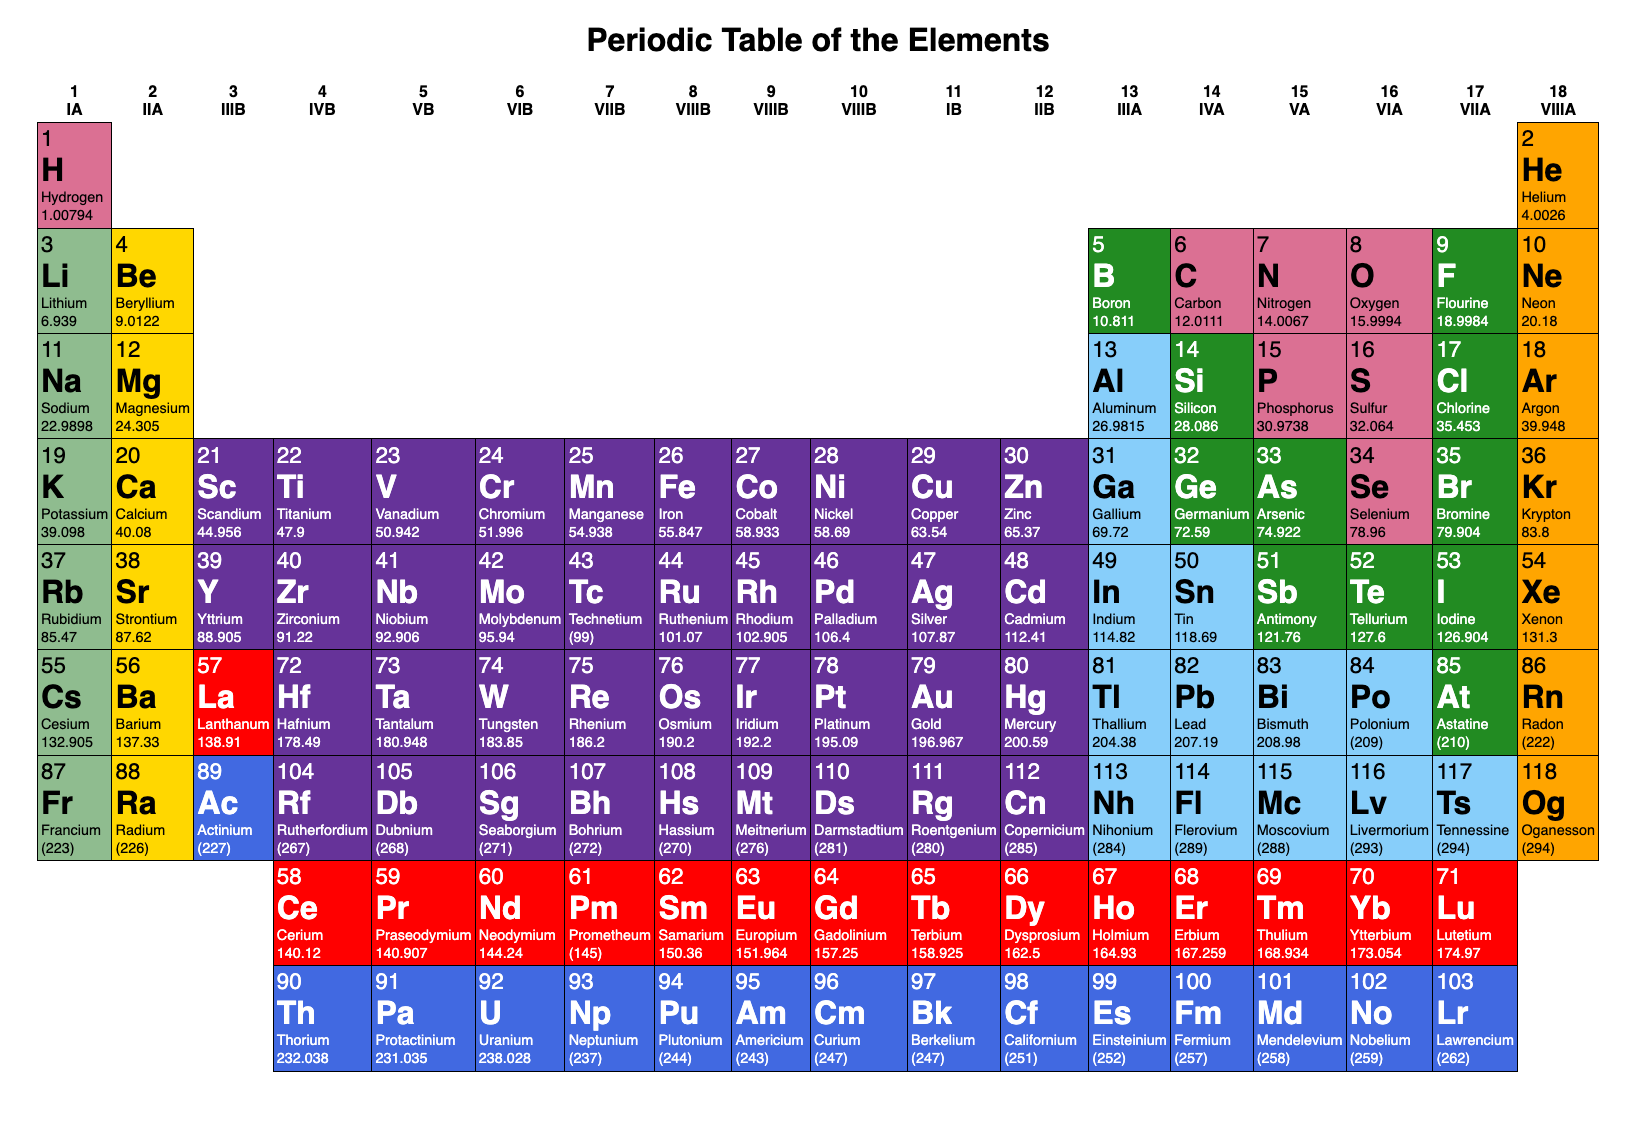
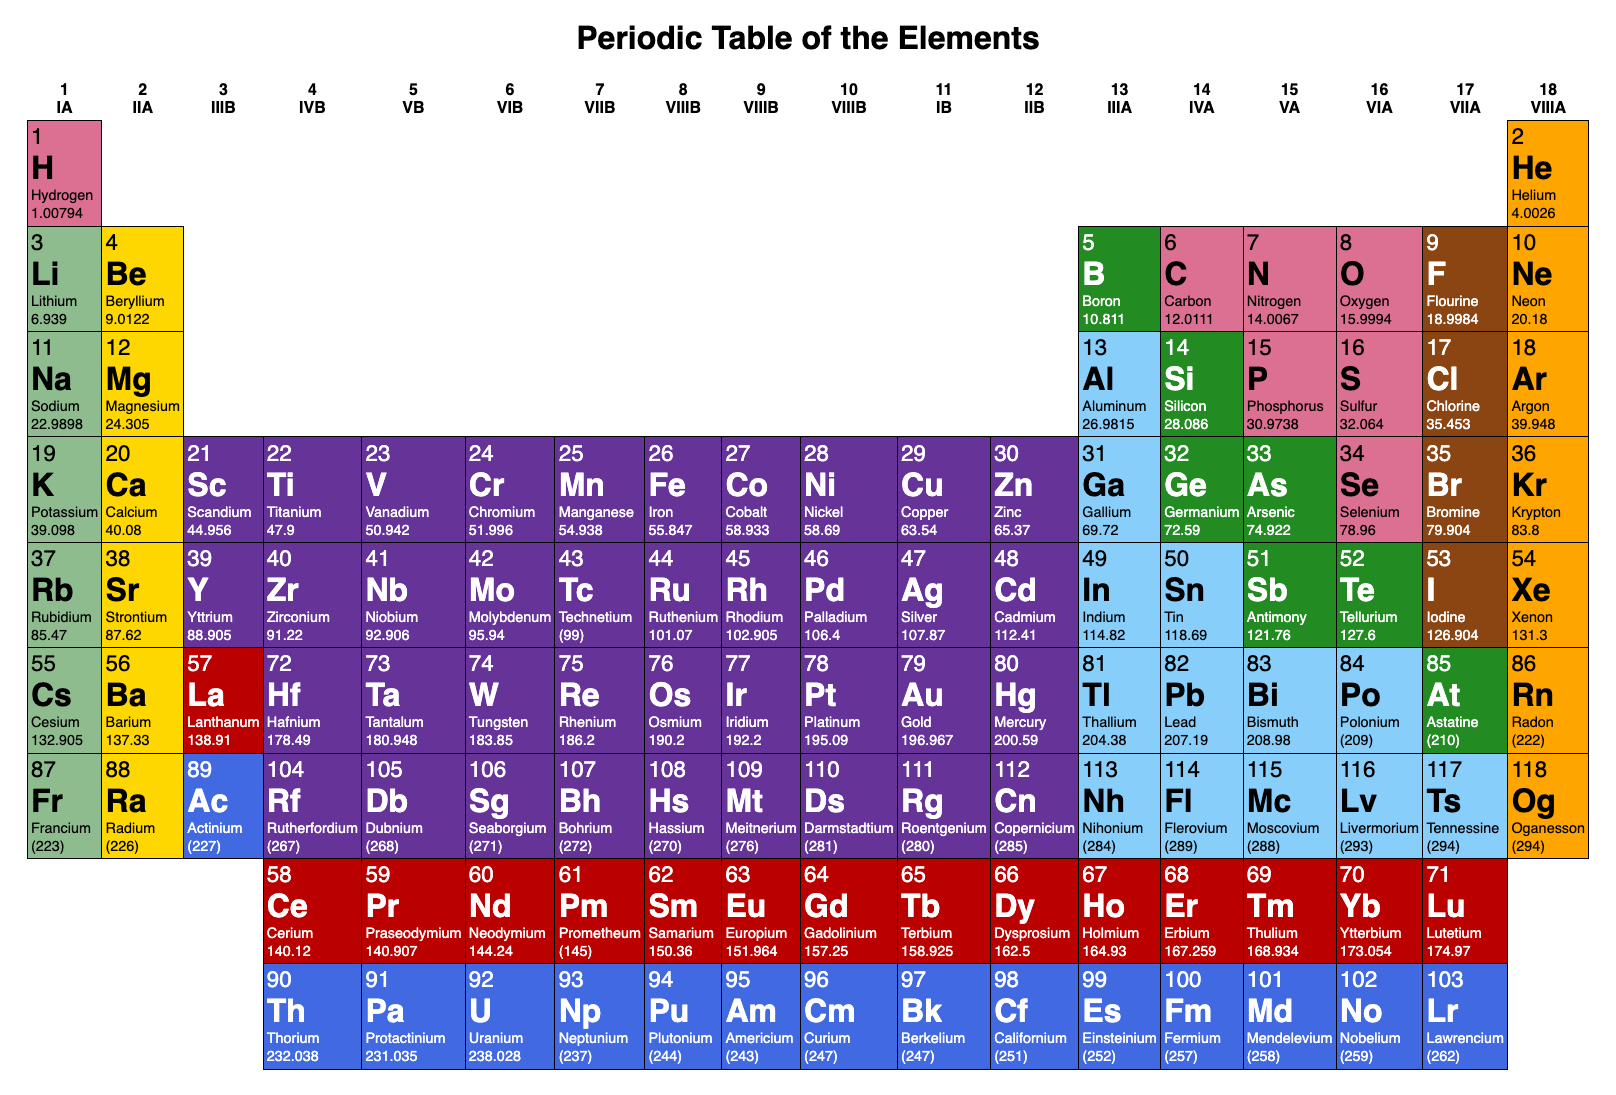
Make halogen nonmetals brown, and darken lanthanides.

diff --git a/client/main.css b/client/main.css
@@ -59,7 +59,7 @@ td.metalloid {
     color: white;
 }
 td.halogen-nonmetal {
-    background: forestgreen;
+    background: saddlebrown;
     color: white;
 }
 td.transition-metal {
@@ -71,7 +71,7 @@ td.post-transition-metal {
     color: black;
 }
 td.lanthanide {
-    background: red;
+    background: #b00;
     color: white;
 }
 td.actinide {
